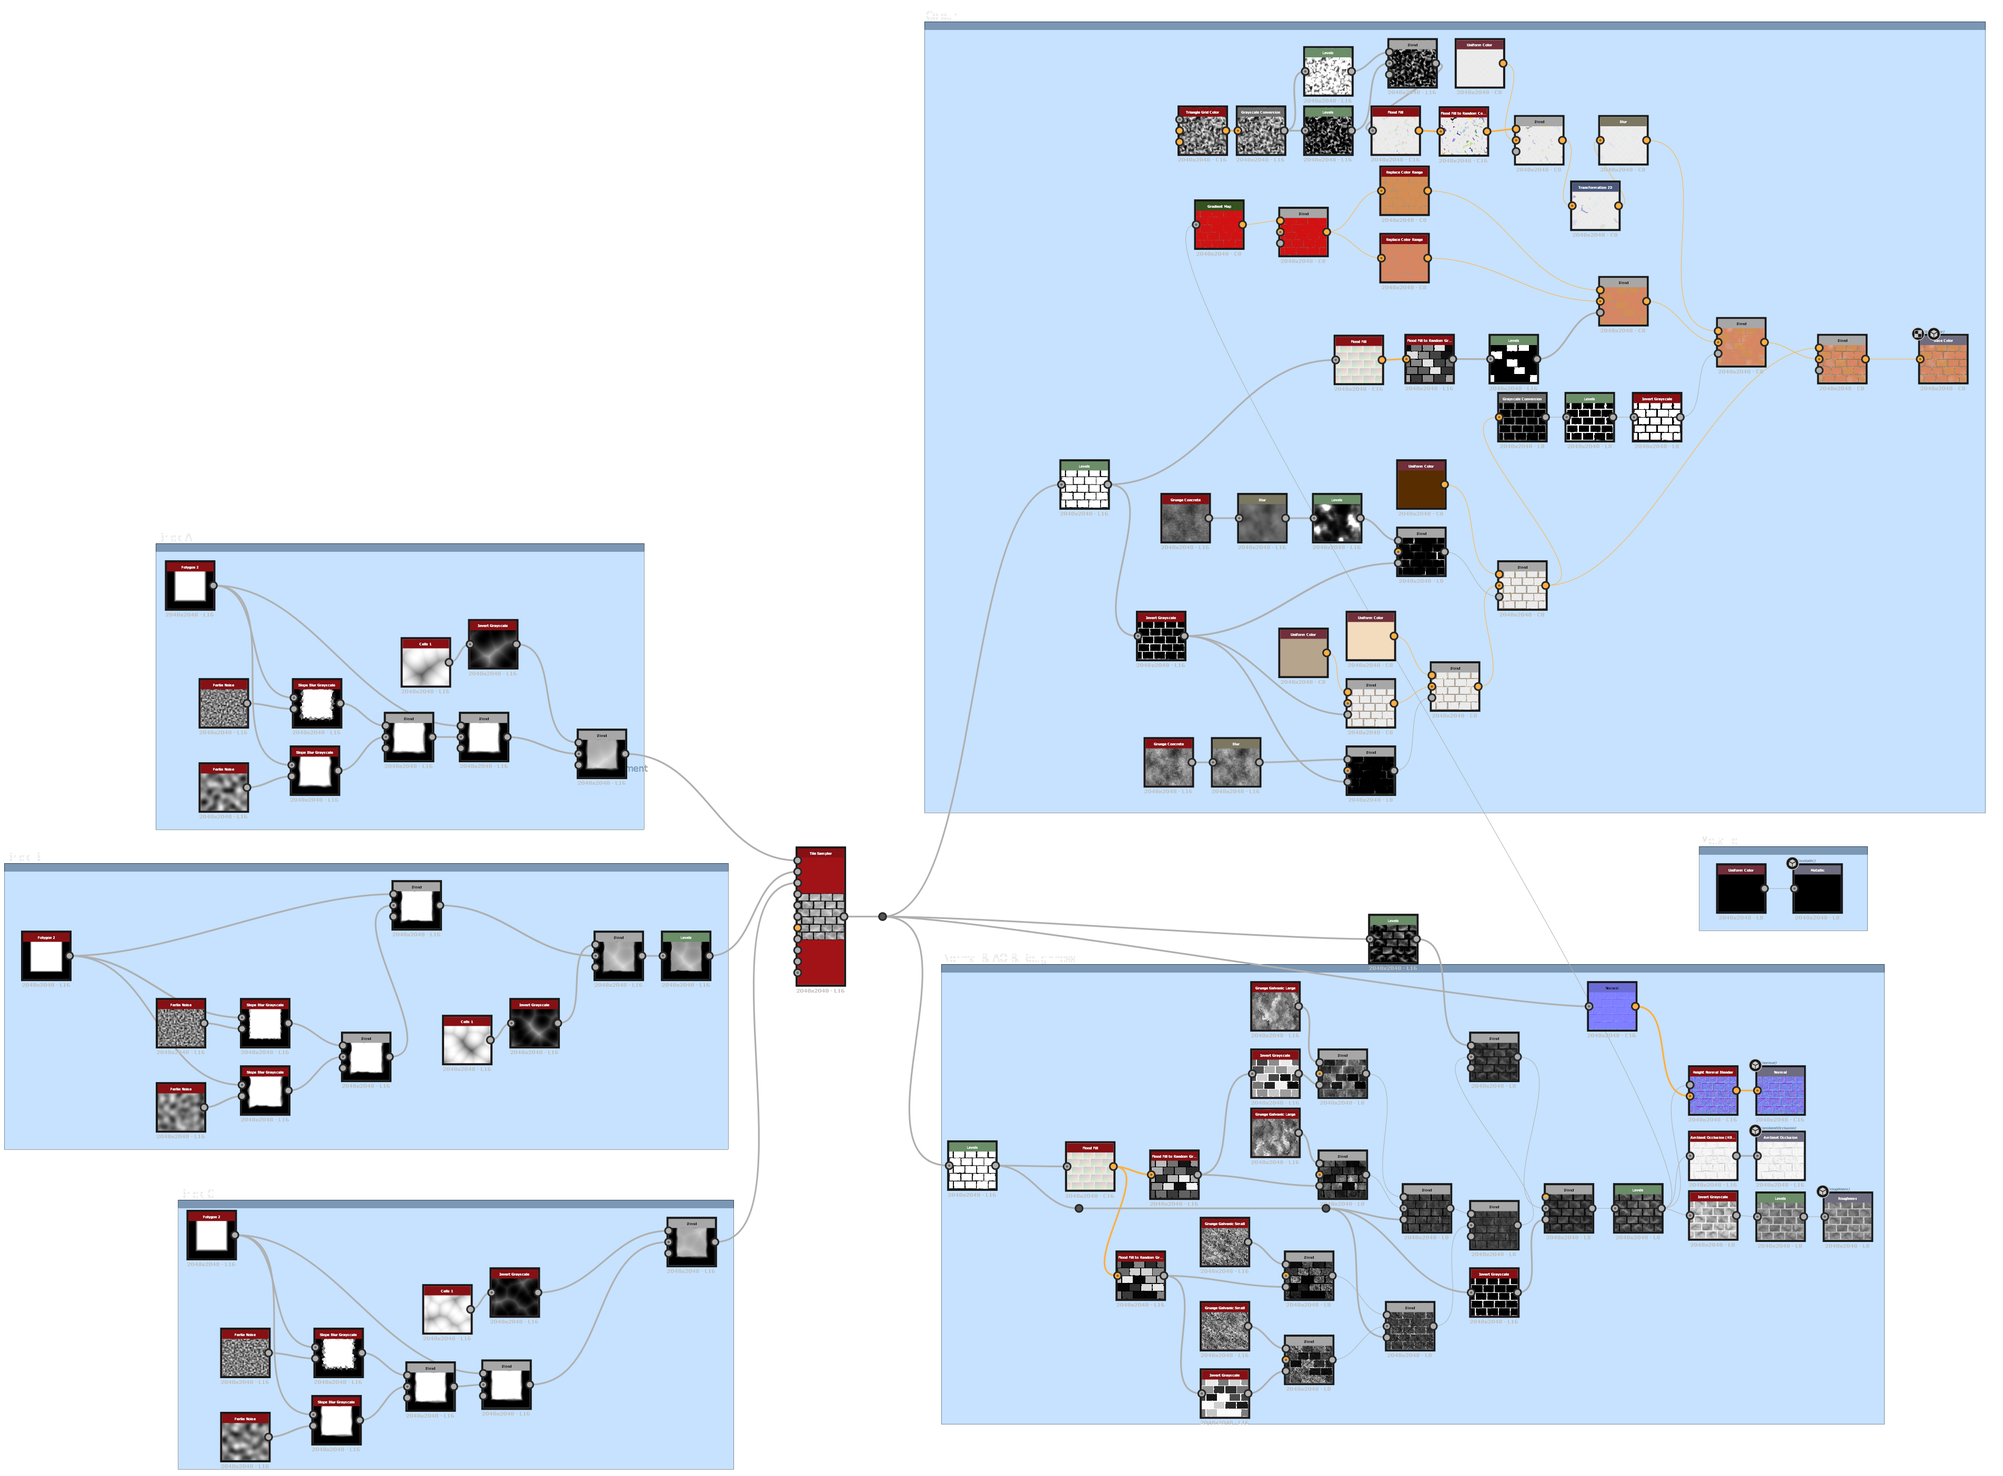
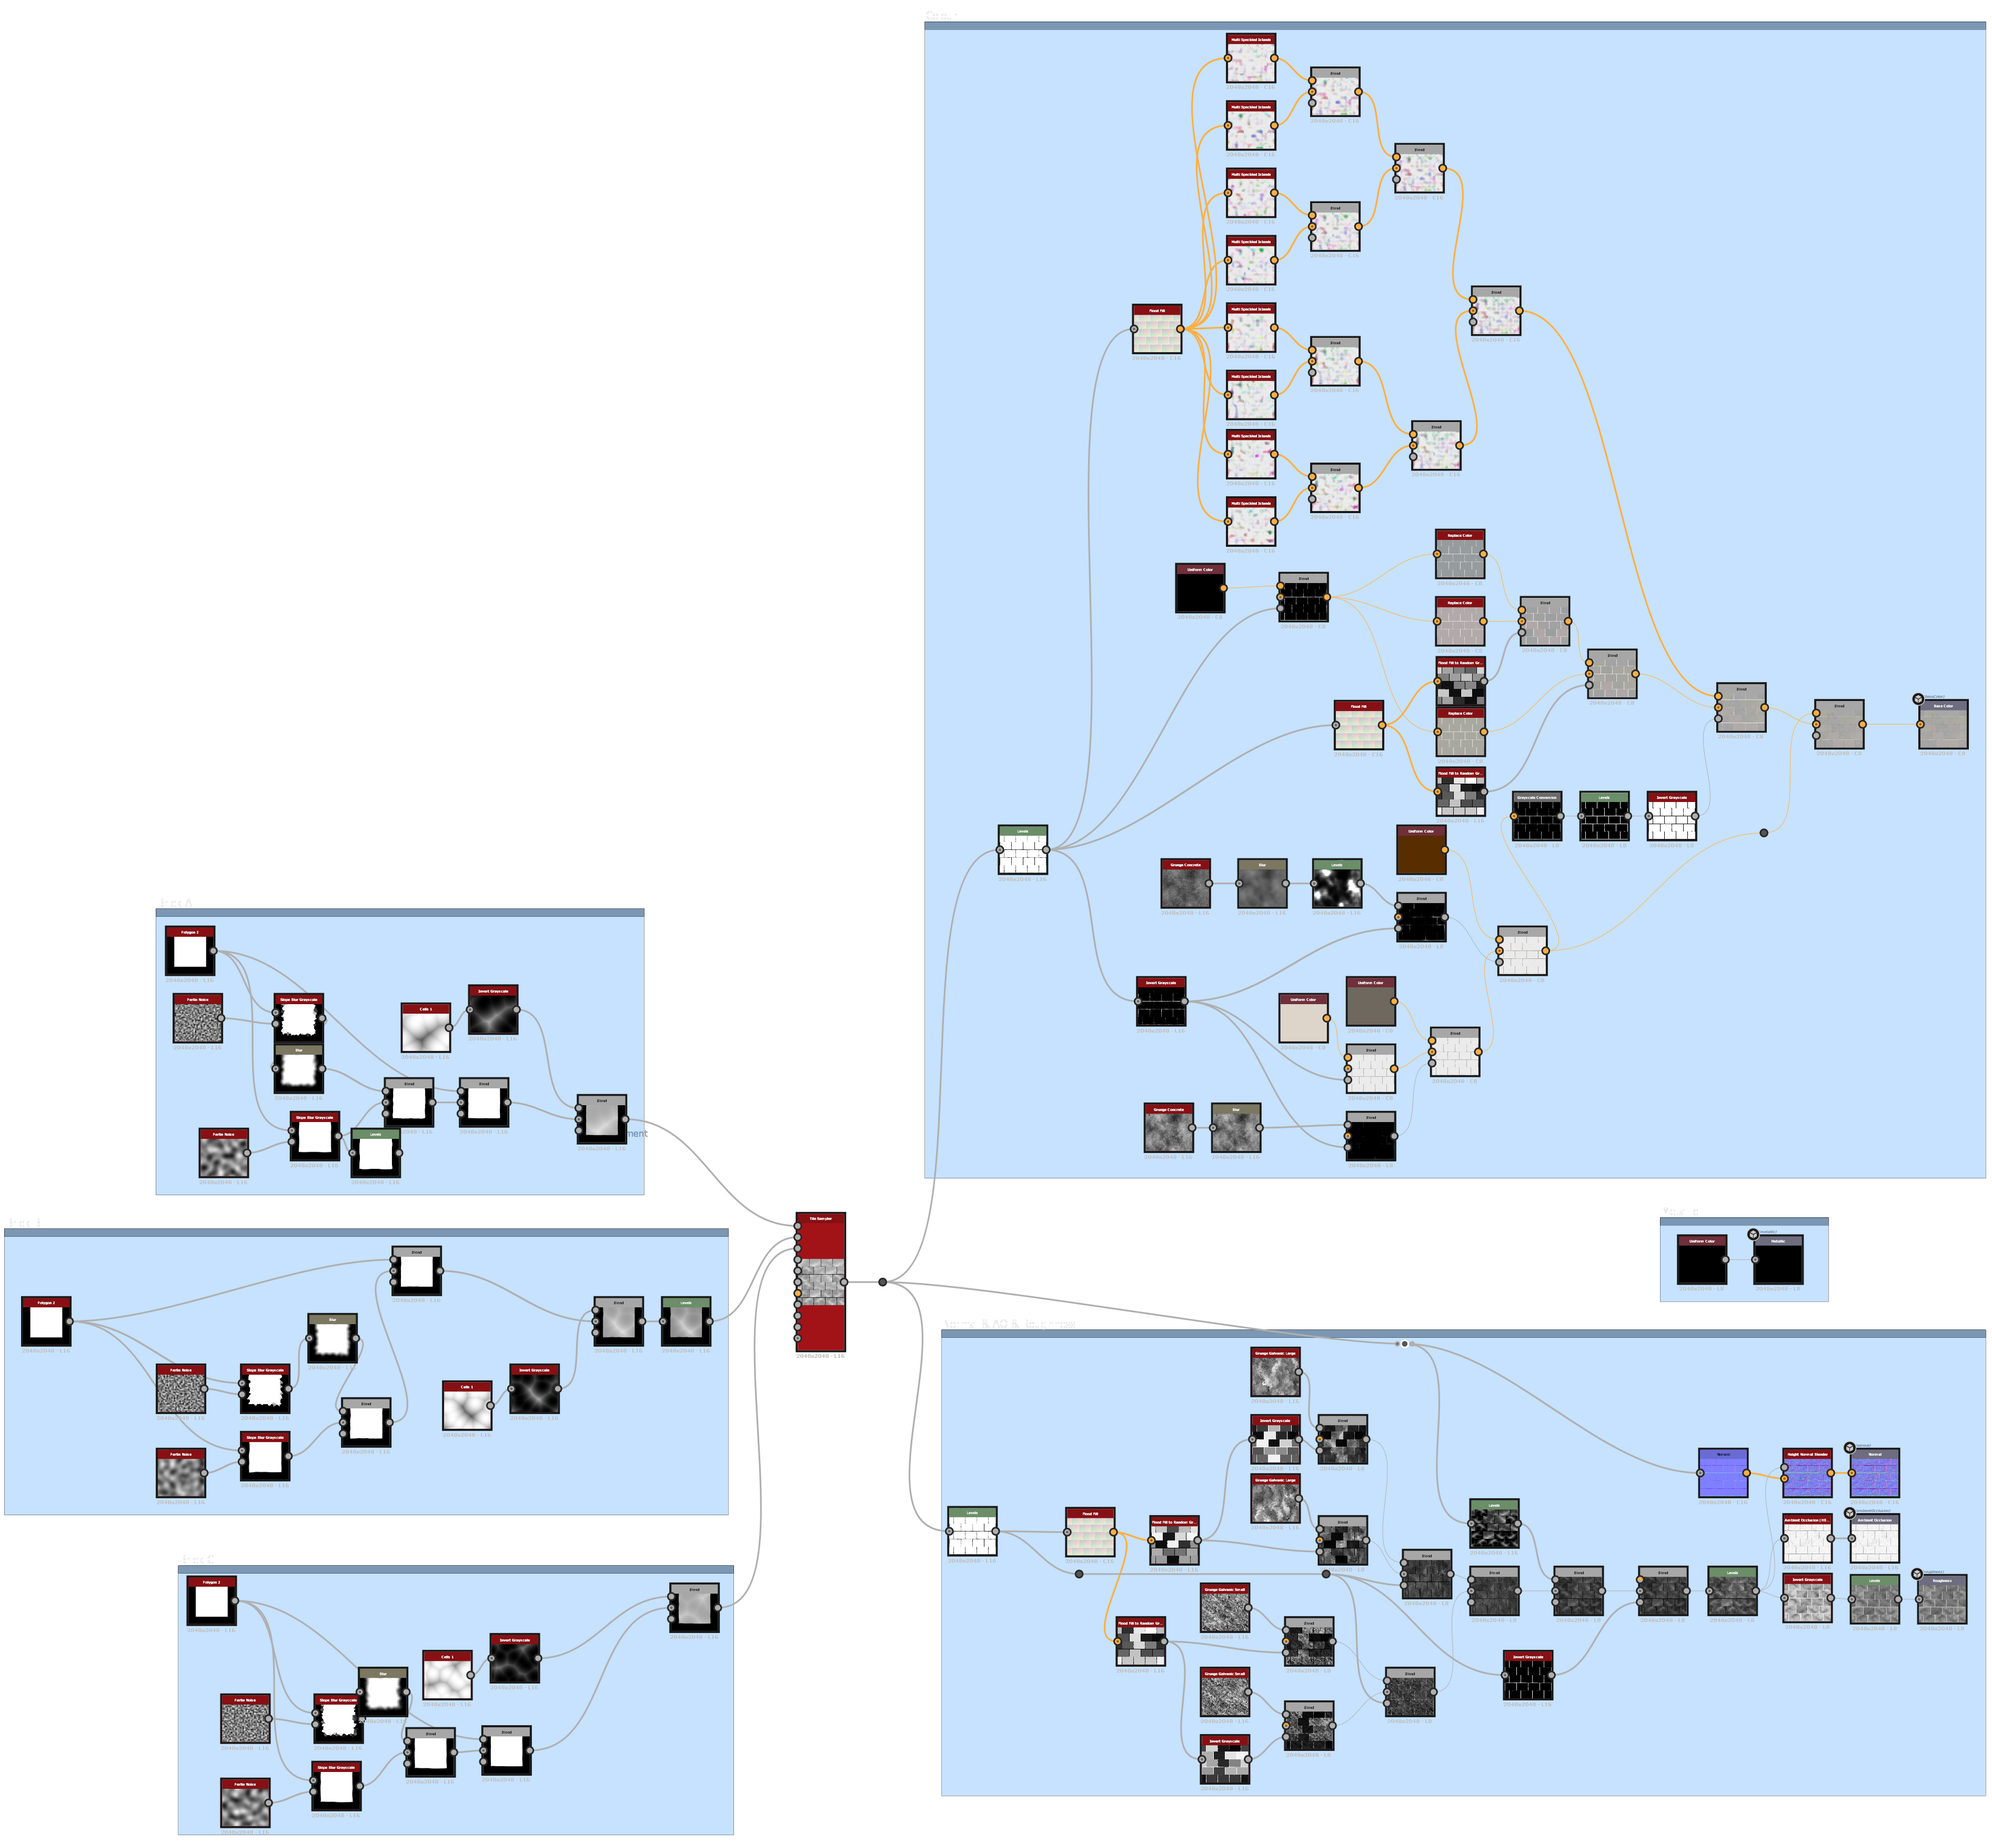
Update substance designer photos

diff --git a/_posts/2022-11-01-Cathedral.md b/_posts/2022-11-01-Cathedral.md
@@ -36,6 +36,13 @@ I knew that this project would use a tileable stone brick texture for a majority
 
 To produce this final version, I have several main sections, as you can see in the photo of the Substance Designer graph below.
 <span class="image fit"><img src="{{ site.baseurl }}\assets\images\Cathedral\Stone_Graph.png" alt="" /></span>
+<div class = "box alt">
+    <div class="row">
+		<div class="6u"><span class="image fit"><img src="{{ site.baseurl }}\assets\images\Cathedral\Multi_Speckled_Islands_Graph.png" alt="" /></span></div>
+		<div class="6u$"><span class="image fit"><img src="{{ site.baseurl }}\assets\images\Cathedral\Island_Rand_Colour_Graph.png" alt="" /></span></div>
+	</div>
+    <!-- <i> From left to right; the initial kit displayed in engine with a recoloured brick material, and the reimported kit with trim details moved to a separate material, in this instance a much lighter version of the brick material to highlight details.</i> -->
+</div>
 
 As with all of my work, I took a very iterative approach for the development of this asset, regularly importing the texture into UE5 to see how it looked in engine before making further changes to refine it, several stages of which can be seen below.
 
@@ -49,6 +56,7 @@ As with all of my work, I took a very iterative approach for the development of 
 
 
 Early importation into engine allowed me to set up the engine material early and refine it, for example I set it up so it tiled, then discovered I dislike how the default tiling works. My initial, and the simplest, implementation scaled the texture in the objects local space, meaning that each object required a material with a different scaling value in order to have a consistent brick size across models. This seemed like it would require a lot of tinkering and wouldn't scale well, so I put together a quick script to scale the texture in world space rather than local space for each object, meaning that I can have one primary material that controls the brick scale. When an asset has a normal or AO map a new instance of the primary material can be created, and it has optional slots to insert a custom AO and/ or normal map.
+
 <span class="image fit"><img src="{{ site.baseurl }}\assets\images\Cathedral\Primary_Mat.png" alt="" /></span>
 
 <h3>Retopology</h3>
